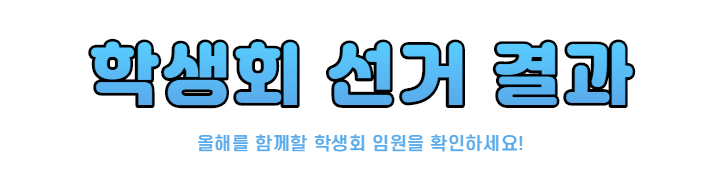
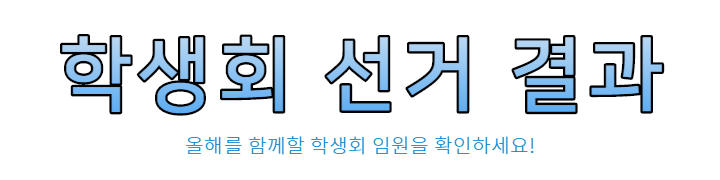
로고 및 세부 디자인 수정

Changed region(s): [[0.0611, 0.1944, 0.9472, 0.6667], [0.2444, 0.75, 0.7333, 0.8611]]

diff --git a/public/index.html b/public/index.html
@@ -7,37 +7,14 @@
     <meta name="theme-color" content="#000000" />
     <meta
       name="description"
-      content="Web site created using create-react-app"
+      content="README"
     />
     <link rel="apple-touch-icon" href="%PUBLIC_URL%/logo192.png" />
-    <!--
-      manifest.json provides metadata used when your web app is installed on a
-      user's mobile device or desktop. See https://developers.google.com/web/fundamentals/web-app-manifest/
-    -->
     <link rel="manifest" href="%PUBLIC_URL%/manifest.json" />
-    <!--
-      Notice the use of %PUBLIC_URL% in the tags above.
-      It will be replaced with the URL of the `public` folder during the build.
-      Only files inside the `public` folder can be referenced from the HTML.
-
-      Unlike "/favicon.ico" or "favicon.ico", "%PUBLIC_URL%/favicon.ico" will
-      work correctly both with client-side routing and a non-root public URL.
-      Learn how to configure a non-root public URL by running `npm run build`.
-    -->
     <title>README</title>
   </head>
   <body>
     <noscript>You need to enable JavaScript to run this app.</noscript>
     <div id="root"></div>
-    <!--
-      This HTML file is a template.
-      If you open it directly in the browser, you will see an empty page.
-
-      You can add webfonts, meta tags, or analytics to this file.
-      The build step will place the bundled scripts into the <body> tag.
-
-      To begin the development, run `npm start` or `yarn start`.
-      To create a production bundle, use `npm run build` or `yarn build`.
-    -->
   </body>
 </html>

diff --git a/src/pages/components/council/CouncilEditor.js b/src/pages/components/council/CouncilEditor.js
@@ -132,8 +132,8 @@ class CouncilEditor extends React.Component {
                     style={{marginLeft:'3%',marginRight:'3%',marginBottom:'3%', minHeight:'500px'}}
                 />
                 <div style={{width:'100%', textAlign: 'right'}}>
-                    <button onClick={this.prev} style={{width:'100px', height:'30px',marginRight:'1%',marginBottom:'3%', border:'1px solid rgb(130, 162, 209)', backgroundColor:'white', color:'#59AAEB', borderRadius:'5px', outline:'none'}}>목록</button>
-                    <button onClick={this.dataSubmit} style={{width:'100px', height:'30px',marginRight:'3%',marginBottom:'3%', border:'1px solid rgb(130, 162, 209)', backgroundColor:'#59AAEB', color:'white', borderRadius:'5px'}}>등록</button>
+                    <button onClick={this.prev} style={{width:'100px', height:'30px',marginRight:'1%',marginBottom:'3%', border:'1px solid rgb(130, 162, 209)', backgroundColor:'white', color:'#5CACF2', borderRadius:'5px', outline:'none'}}>목록</button>
+                    <button onClick={this.dataSubmit} style={{width:'100px', height:'30px',marginRight:'3%',marginBottom:'3%', border:'1px solid rgb(130, 162, 209)', backgroundColor:'#5CACF2', color:'white', borderRadius:'5px'}}>등록</button>
                 </div>
             </>
       )

diff --git a/src/pages/components/notice/NoticeEditor.js b/src/pages/components/notice/NoticeEditor.js
@@ -110,8 +110,8 @@ class NoticeEditor extends React.Component {
                     style={{marginLeft:'3%',marginRight:'3%',marginBottom:'3%', minHeight:'500px'}}
                 />
                 <div style={{width:'100%', textAlign: 'right'}}>
-                    <button onClick={this.prev} style={{width:'100px', height:'30px',marginRight:'1%',marginBottom:'3%', border:'1px solid rgb(130, 162, 209)', backgroundColor:'white', color:'#59AAEB', borderRadius:'5px', outline:'none'}}>목록</button>
-                    <button onClick={this.dataSubmit} style={{width:'100px', height:'30px',marginRight:'3%',marginBottom:'3%', border:'1px solid rgb(130, 162, 209)', backgroundColor:'#59AAEB', color:'white', borderRadius:'5px'}}>등록</button>
+                    <button onClick={this.prev} style={{width:'100px', height:'30px',marginRight:'1%',marginBottom:'3%', border:'1px solid rgb(130, 162, 209)', backgroundColor:'white', color:'#5CACF2', borderRadius:'5px', outline:'none'}}>목록</button>
+                    <button onClick={this.dataSubmit} style={{width:'100px', height:'30px',marginRight:'3%',marginBottom:'3%', border:'1px solid rgb(130, 162, 209)', backgroundColor:'#5CACF2', color:'white', borderRadius:'5px'}}>등록</button>
                 </div>
             </>
       )

diff --git a/src/pages/components/vote/CandidateSet.js b/src/pages/components/vote/CandidateSet.js
@@ -201,8 +201,8 @@ const CandidateSet = (props) =>{
             </div>
 
             <div style={{width:'100%', textAlign: 'right'}}>
-                <button onClick={prev} style={{width:'100px', height:'30px',marginRight:'1%',marginBottom:'3%', border:'1px solid rgb(130, 162, 209)', backgroundColor:'white', color:'#59AAEB', borderRadius:'5px', outline:'none'}}>목록</button>
-                <button onClick={dataSubmit} style={{width:'100px', height:'30px',marginRight:'3%',marginBottom:'3%', border:'1px solid rgb(130, 162, 209)', backgroundColor:'#59AAEB', color:'white', borderRadius:'5px'}}>등록</button>
+                <button onClick={prev} style={{width:'100px', height:'30px',marginRight:'1%',marginBottom:'3%', border:'1px solid rgb(130, 162, 209)', backgroundColor:'white', color:'#5CACF2', borderRadius:'5px', outline:'none'}}>목록</button>
+                <button onClick={dataSubmit} style={{width:'100px', height:'30px',marginRight:'3%',marginBottom:'3%', border:'1px solid rgb(130, 162, 209)', backgroundColor:'#5CACF2', color:'white', borderRadius:'5px'}}>등록</button>
             </div>
           
         </div>

diff --git a/src/pages/components/vote/VoteAdmin.js b/src/pages/components/vote/VoteAdmin.js
@@ -118,8 +118,8 @@ const handleKeyPress = (e) => {
                 </tbody>
             </table>
 
-            <Link style={{color:"white"}} to={`/vote`}><button style={{marginTop:"10px", backgroundColor:"#59aaeb", outline:"none", color:"white", border:"1px solid #e3e3e3", width:"50px", height:"23px"}} type="button">목록</button></Link>
-            <button style={{marginTop:"10px", marginLeft:"10px", backgroundColor:"#59aaeb", outline:"none", color:"white", border:"1px solid #e3e3e3", width:"50px", height:"23px"}} onClick={setData} type="button">등록</button>
+            <Link style={{color:"white"}} to={`/vote`}><button style={{marginTop:"10px", backgroundColor:"#5CACF2", outline:"none", color:"white", border:"1px solid #e3e3e3", width:"50px", height:"23px"}} type="button">목록</button></Link>
+            <button style={{marginTop:"10px", marginLeft:"10px", backgroundColor:"#5CACF2", outline:"none", color:"white", border:"1px solid #e3e3e3", width:"50px", height:"23px"}} onClick={setData} type="button">등록</button>
         </div>
     )
 }

diff --git a/src/pages/components/notice/NoticeTable.js b/src/pages/components/notice/NoticeTable.js
@@ -18,7 +18,7 @@ const NoticePoster = require("../../../img/Notice.png");
 
 const StyledTableCell = withStyles((theme) => ({
     head: {
-        backgroundColor: "#59AAEB",
+        backgroundColor: "#5CACF2",
         color: "white",
         padding: "5px",
     },
@@ -45,7 +45,7 @@ const useStyles = makeStyles((theme) => ({
         marginRight: "10%",
         display: "block",
         float: "right",
-        backgroundColor: "#59AAEB",
+        backgroundColor: "#5CACF2",
         color: "white",
     },
 }));
@@ -137,7 +137,7 @@ function NoticeTable() {
                             paddingRight: "15px",
                             height: "38px",
                             color: "white",
-                            backgroundColor: "#59AAEB",
+                            backgroundColor: "#5CACF2",
                             border: "1px solid #bbbbbb",
                             borderRadius: "5px",
                             verticalAlign: "bottom",

diff --git a/src/pages/components/css/CouncilList.css b/src/pages/components/css/CouncilList.css
@@ -10,7 +10,7 @@
     height: 35px;
     margin-right: 3%;
     border-style: solid;
-    border-color: #59AAEB;
+    border-color: #5CACF2;
     border-radius: 10em;
     padding-top: 1%;
 }
@@ -18,7 +18,7 @@
     width: 30%;
     height: 35px;
     border-style: solid;
-    border-color: #59AAEB;
+    border-color: #5CACF2;
     border-radius: 10em;
     padding-top: 1%;
 }
@@ -31,13 +31,13 @@
     width: 30%;
     margin-right: 3%;
     border-style: solid;
-    border-color: #59AAEB;
+    border-color: #5CACF2;
     border-radius: 1em;
 }
 .councilContentRight {
     width: 30%;
     border-style: solid;
-    border-color: #59AAEB;
+    border-color: #5CACF2;
     border-radius: 1em;
 }
 @media all and (max-width:768px) {

diff --git a/src/pages/components/council/CouncilDetail.js b/src/pages/components/council/CouncilDetail.js
@@ -6,14 +6,14 @@ import { makeStyles } from "@material-ui/core/styles";
 
 const useStyles = makeStyles((theme) => ({
     button: {
-        backgroundColor: "#59AAEB",
+        backgroundColor: "#5CACF2",
         color: "white",
     },
 }));
 
 const CouncilDetail = (props) => {
     const classes = useStyles();
-    const NoticePoster = require("../../../img/Notice.png");
+    const NoticePoster = require("../../../img/CouncilDetail.png");
     const [councilDetail, setCouncilDetail] = useState([""]);
     const [isLoading, setIsLoading] = useState(false);
     let locationValue = props.location.pathname.split("/");

diff --git a/src/pages/components/css/HeaderPoster.css b/src/pages/components/css/HeaderPoster.css
@@ -1,11 +1,11 @@
 #NoticePoster {
-    width: 50%;
+    width: 55%;
     display: block;
     margin: 0px auto;
 }
 @media all and (max-width: 768px) {
     #NoticePoster {
-        width: 90%;
+        width: 95%;
         display: block;
         margin: 0px auto;
     }

diff --git a/src/pages/components/notice/NoticeDetail.js b/src/pages/components/notice/NoticeDetail.js
@@ -6,7 +6,7 @@ import { makeStyles } from "@material-ui/core/styles";
 
 const useStyles = makeStyles((theme) => ({
     button: {
-        backgroundColor: "#59AAEB",
+        backgroundColor: "#5CACF2",
         color: "white",
     },
 }));

diff --git a/src/pages/components/council/CouncilButton.js b/src/pages/components/council/CouncilButton.js
@@ -12,7 +12,7 @@ const useStyles = makeStyles((theme) => ({
         padding: "1%",
     },
     button: {
-        backgroundColor: "#59AAEB",
+        backgroundColor: "#5CACF2",
         color: "white",
     },
 }));

diff --git a/src/pages/css/Footer.css b/src/pages/css/Footer.css
@@ -31,7 +31,7 @@
 .mob_menu{
     display: none;
     /* background-color: rgb(242, 170, 170); */
-    background-color:#59aaeb;
+    background-color:#5CACF2;
     width:100%;
     height:50px;
     position: fixed;
